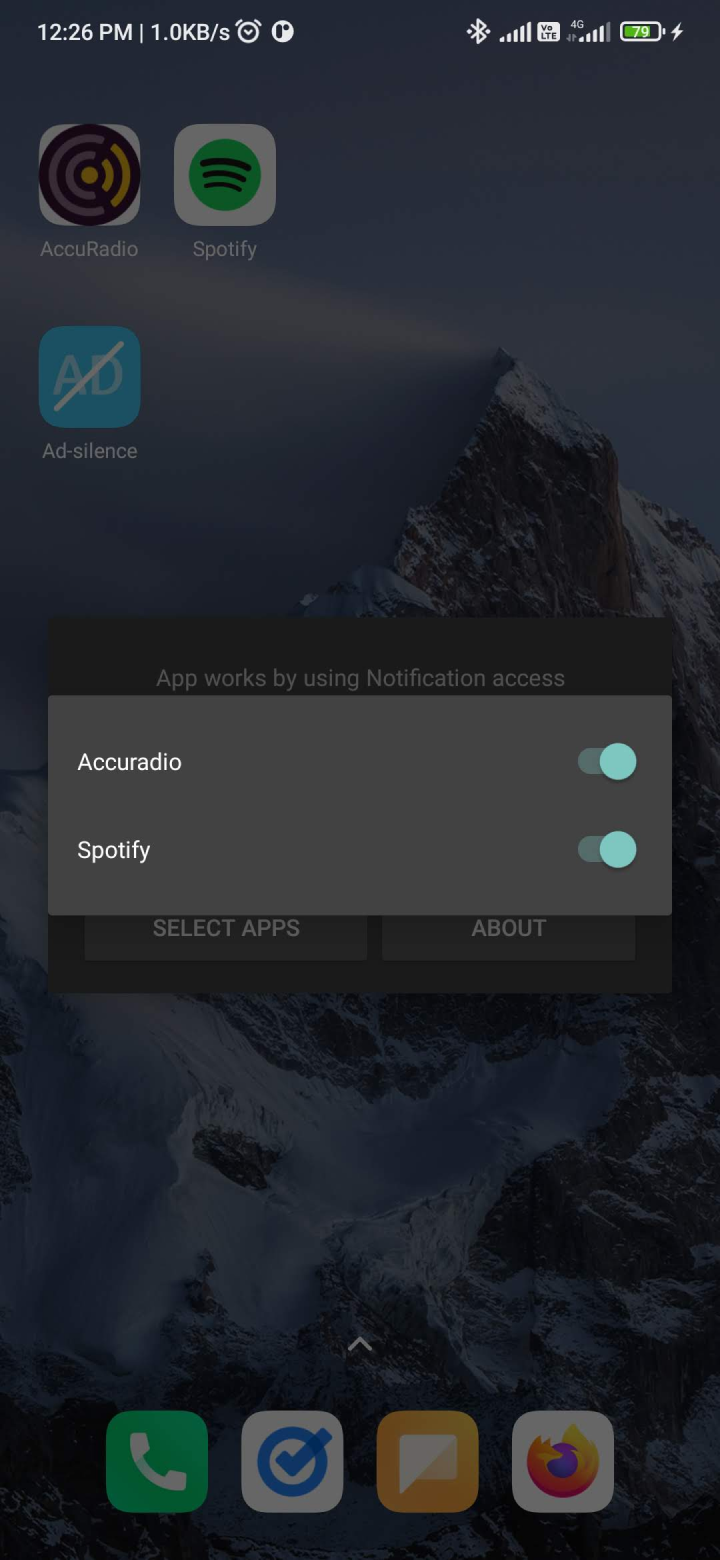
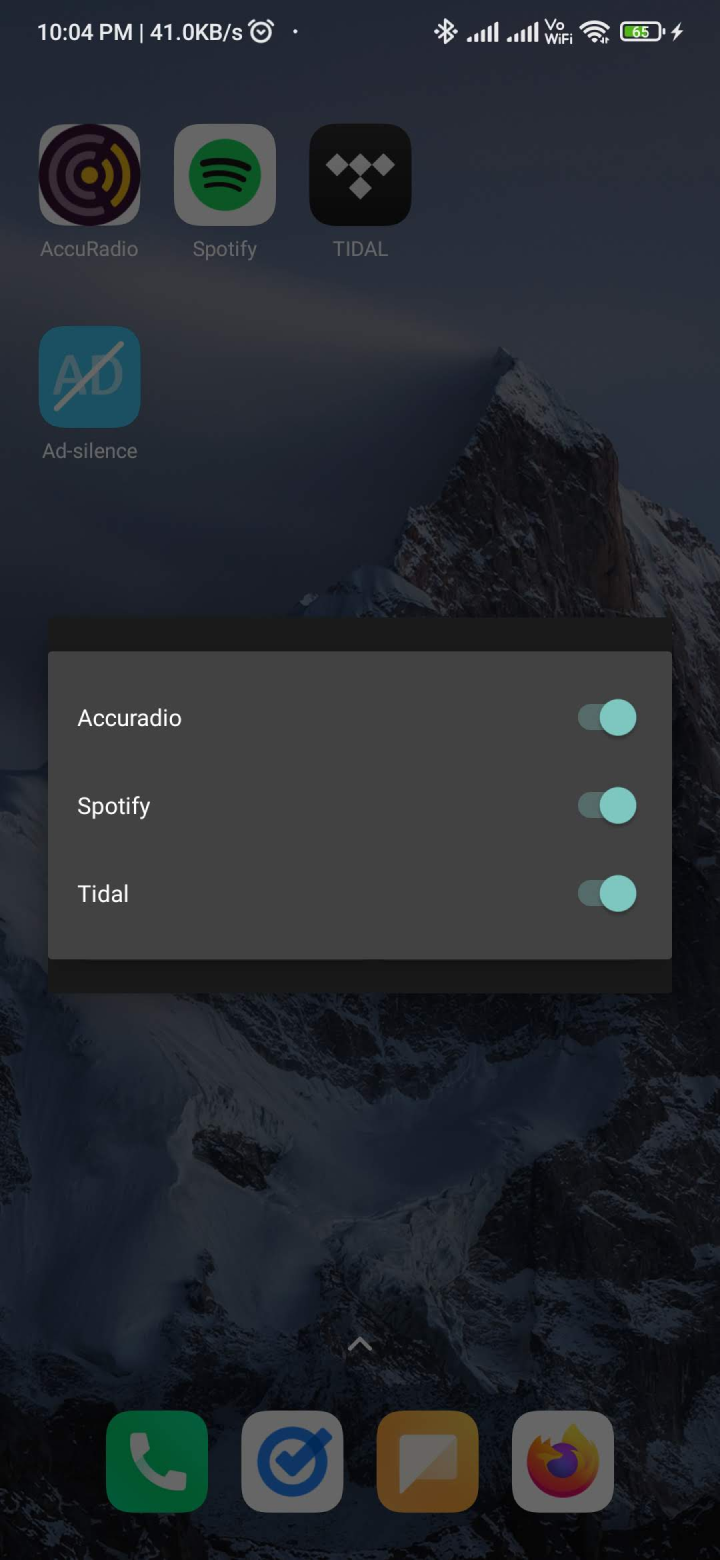
add support for tidal

diff --git a/app/src/main/java/bluepie/ad_silence/AdSilenceActivity.kt b/app/src/main/java/bluepie/ad_silence/AdSilenceActivity.kt
@@ -96,6 +96,7 @@ class AdSilenceActivity : Activity() {
         val dpi = resources.displayMetrics.density
         val isAccuradioInstalled = utils.isAccuradioInstalled(applicationContext)
         val isSpotifyInstalled = utils.isSpotifyInstalled(applicationContext)
+        val isTidalInstalled = utils.isTidalInstalled(applicationContext)
 
         findViewById<Button>(R.id.about_btn)?.setOnClickListener {
             layoutInflater.inflate(R.layout.about, null)?.run {
@@ -181,6 +182,20 @@ class AdSilenceActivity : Activity() {
                     preference.setAppConfigured(
                         SupportedApps.SPOTIFY,
                         !preference.isAppConfigured(SupportedApps.SPOTIFY)
+                    )
+                }
+            }
+
+            appSelectionView.findViewById<Switch>(R.id.tidal_selection_switch)?.run {
+                this.isEnabled = isSpotifyInstalled
+                this.isChecked = preference.isAppConfigured(SupportedApps.TIDAL)
+                "${context.getString(R.string.tidal)} ${if (isTidalInstalled) "" else context.getString(R.string.not_installed)}".also {
+                    this.text = it
+                }
+                this.setOnClickListener {
+                    preference.setAppConfigured(
+                        SupportedApps.TIDAL,
+                        !preference.isAppConfigured(SupportedApps.TIDAL)
                     )
                 }
             }

diff --git a/app/src/main/java/bluepie/ad_silence/Utils.kt b/app/src/main/java/bluepie/ad_silence/Utils.kt
@@ -38,6 +38,9 @@ class Utils {
     fun isSpotifyInstalled(context: Context) =
         isPackageInstalled(context, context.getString(R.string.spotify_package_name))
 
+    fun isTidalInstalled(context: Context) =
+        isPackageInstalled(context, context.getString(R.string.tidal_package_name))
+
     fun mute(audioManager: AudioManager?, addNotificationHelper: AppNotificationHelper?) {
         if (Build.VERSION.SDK_INT >= Build.VERSION_CODES.M) {
             audioManager?.adjustVolume(

diff --git a/README.md b/README.md
@@ -1,6 +1,6 @@
 # Ad-silence
 
-> Remove ads in Accuradio & Spotify
+> Remove ads in Accuradio, Spotify & Tidal.
 
 <p align="left">
   <br/>
@@ -11,7 +11,7 @@
 
 ## Features
 
-- Block ads on `Accuradio android` & `Spotify android`
+- Block ads on `Accuradio android`, `Spotify android` & `Tidal android`
 - Minimal UI
 - App size **less than 150KB**
 - Configure which apps to remove ads in
@@ -24,10 +24,12 @@
 | :-------: | :-----: |
 | Accuradio |   yes   |
 |  Spotify  |   yes   |
+|   Tidal   |   yes   |
 
 - If you want this to work on a different app/audio streaming service, [open an new issue](https://github.com/aghontpi/ad-silence/issues/new) mentioning its name.
 - Since this is built with `Accuradio` in mind, ~~no other apps are supported for now, but Implementing other apps should be quite easy.~~
 - `Spotify` is now supported.
+- `Tidal` is now supported.
 - Easily extensible to other apps.
 
 ## Motivation
